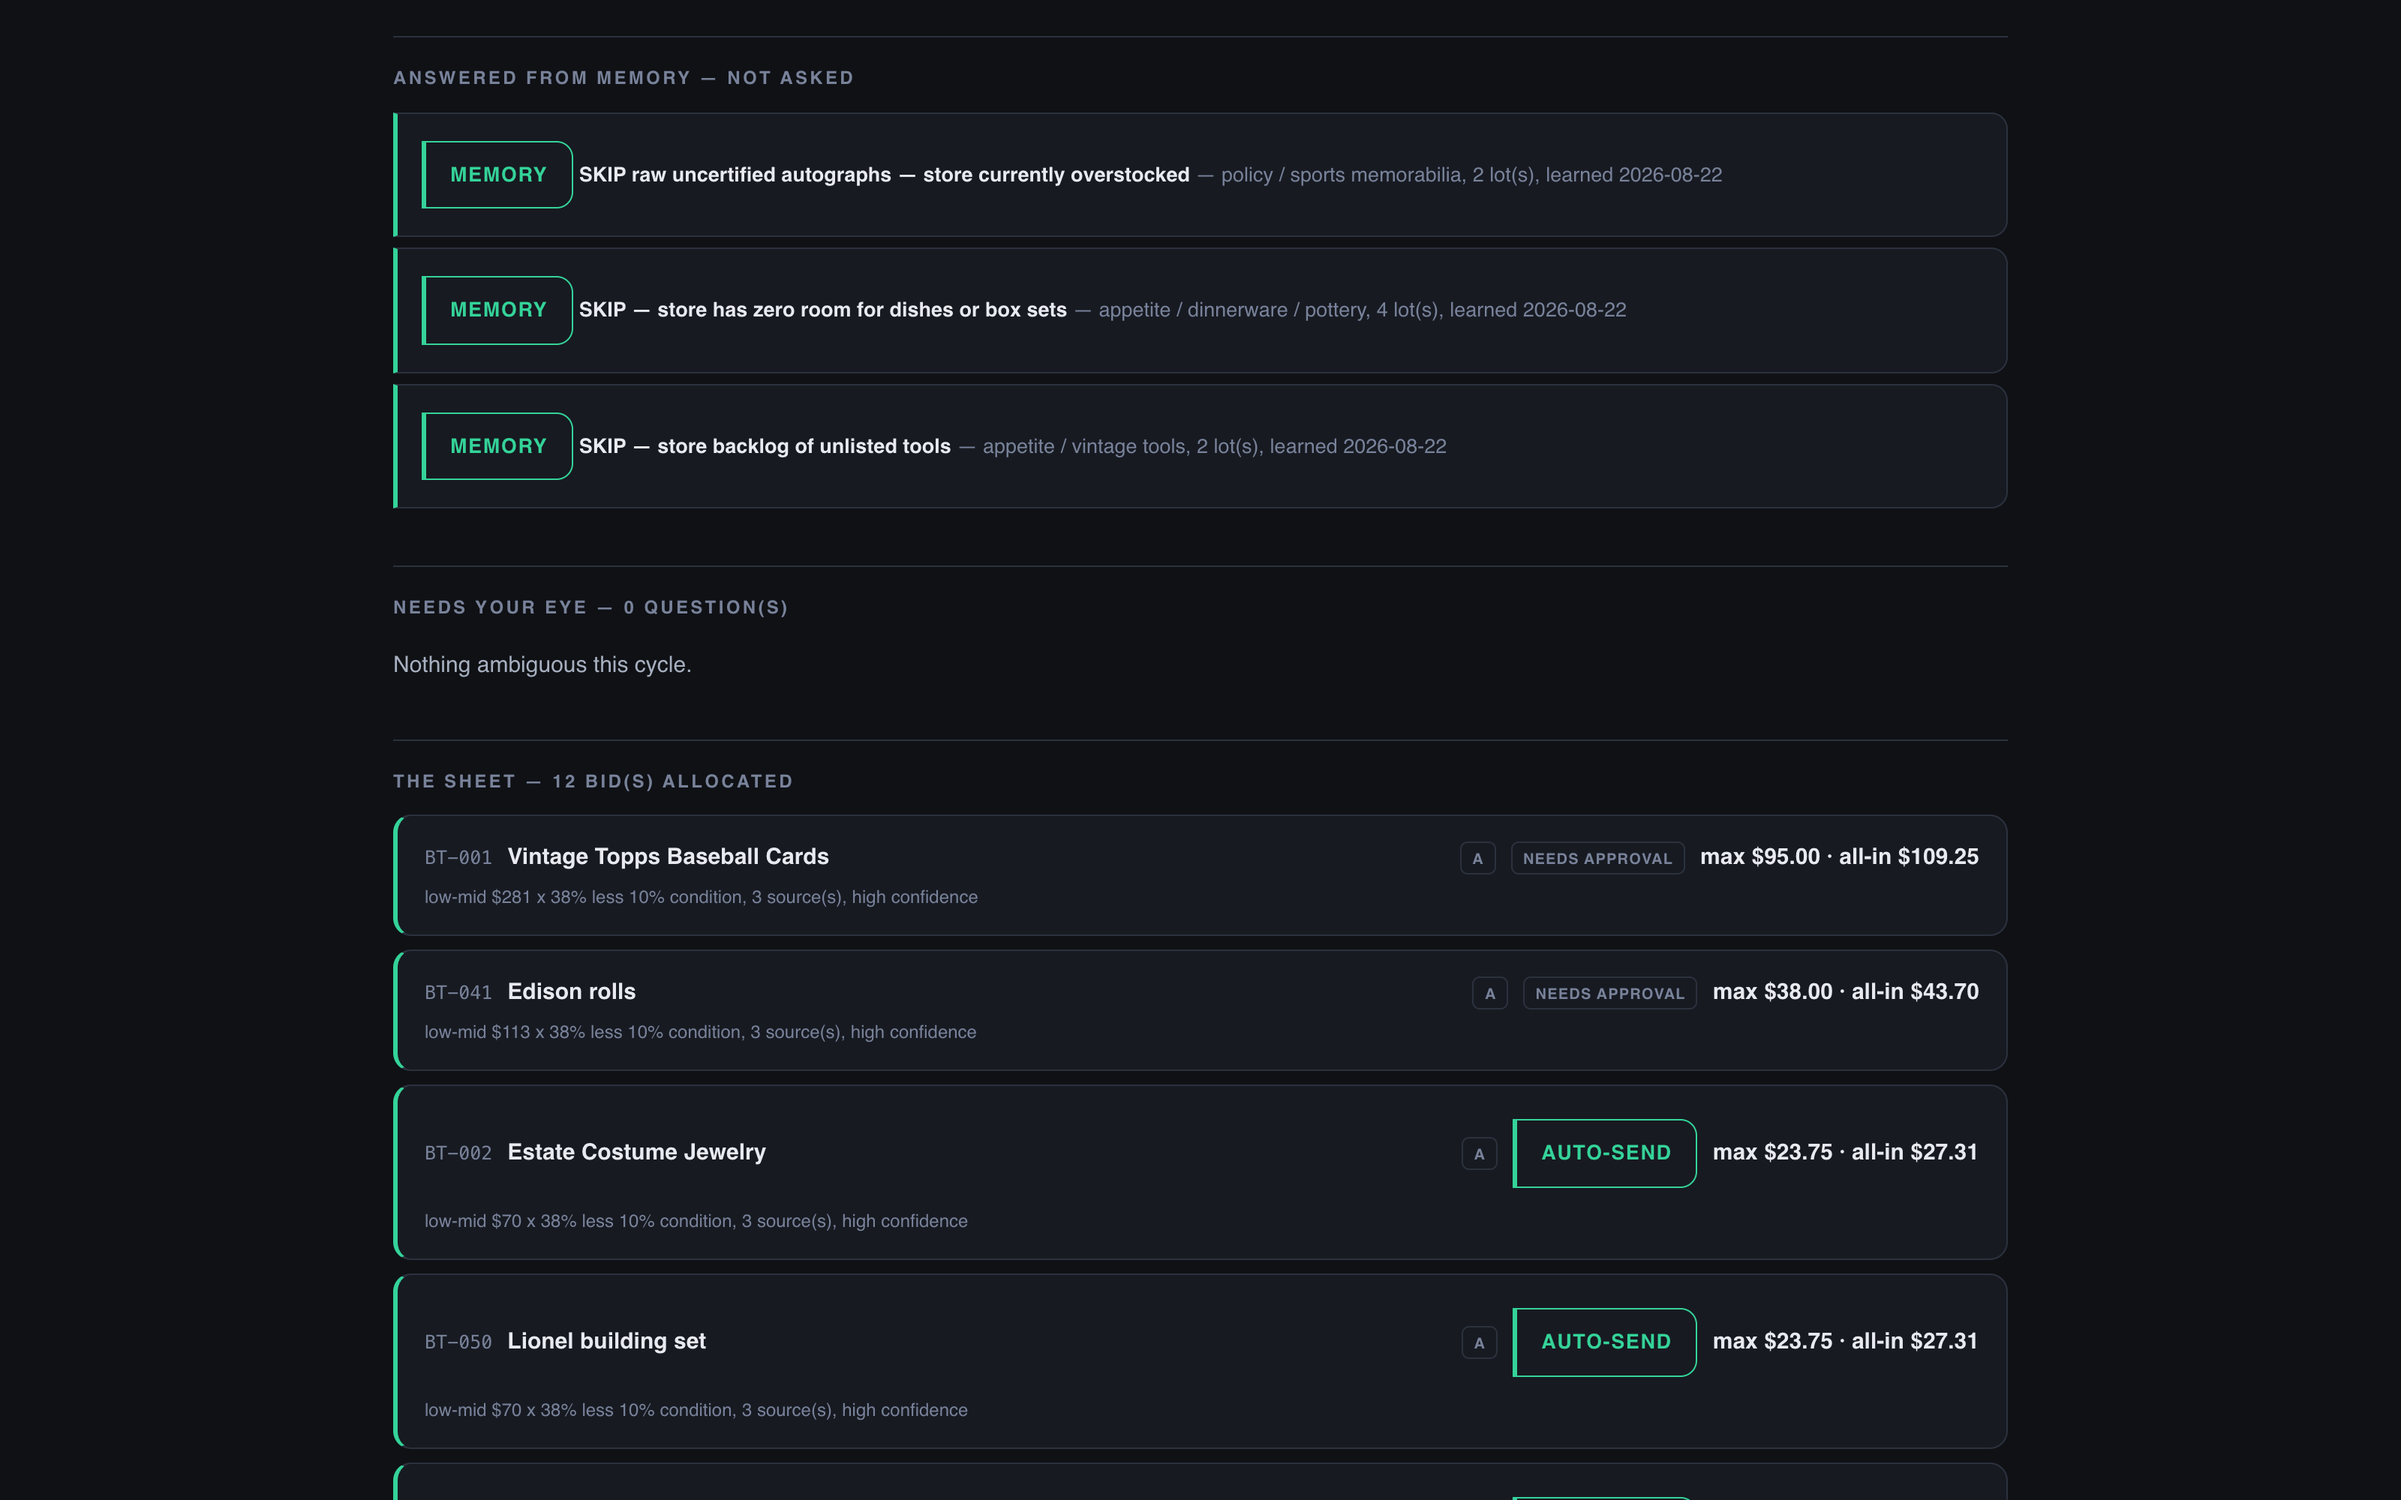
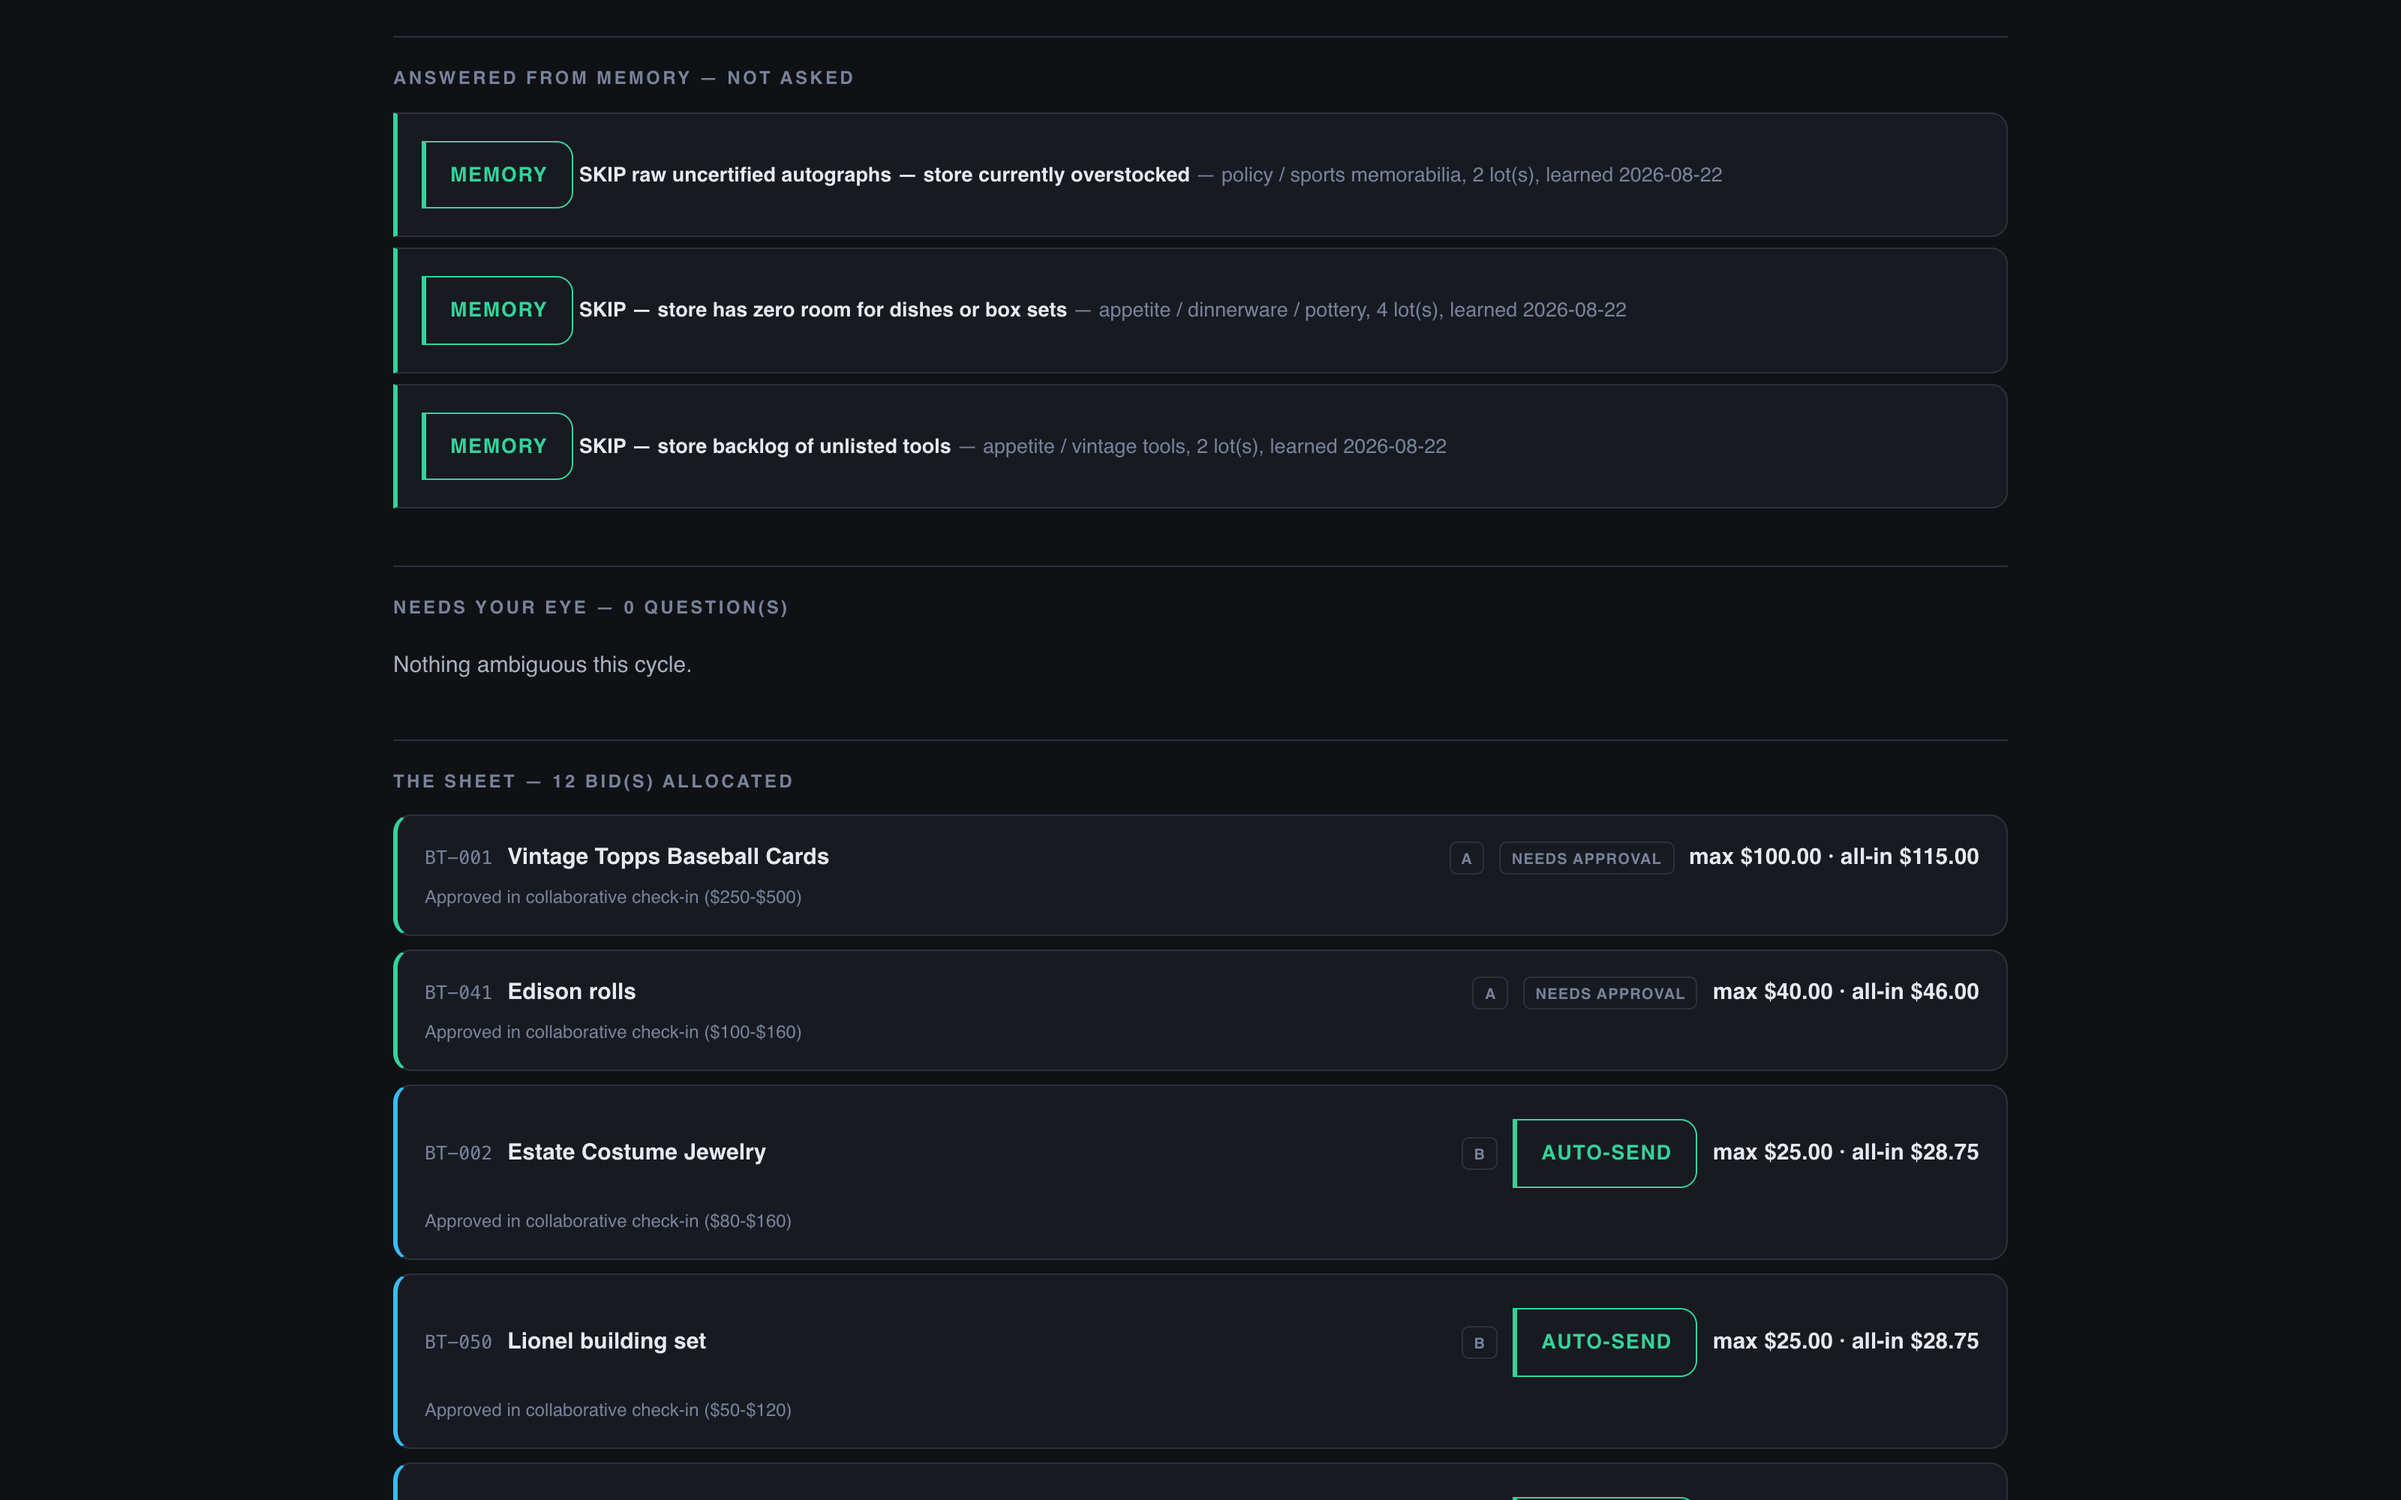
fix(bids): reconciled live Cloud Run server to exact .00 max / .25 all-in on  increments, updated screenshots and video script

diff --git a/src/server.py b/src/server.py
@@ -15,7 +15,7 @@ from fastapi.responses import HTMLResponse, PlainTextResponse, JSONResponse
 
 from src.intake.manifest import parse_drop, group_into_lots, TriagedPhoto
 from src.bidmath import (
-    Lot, CompEstimate, Confidence, Priority,
+    Lot, CompEstimate, Confidence, Priority, Decision,
     price_lot, allocate, summarize, ABSENTEE_FEE
 )
 from src.appraisal import Question, QuestionKind, build_queue, learn, StandingRule
@@ -82,9 +82,10 @@ def get_aug22_state():
 
     lot_groups = group_into_lots(triaged)
 
-    # 2. Approved Sourcing Schedule
+    # 2. Approved Sourcing Schedule (Exact $5 Increments, $335 Max / $385.25 All-In)
     approved_map = {b[0]: b for b in APPROVED_BIDS}
     lots = []
+    decisions = []
     captions_map = {}
 
     for g in lot_groups:
@@ -95,19 +96,29 @@ def get_aug22_state():
 
         if lot_id in approved_map:
             _, _, desc, cat, start_bid, max_bid, est = approved_map[lot_id]
-            # Set comp so price_lot produces the exact max_bid cleanly
-            # max_bid = low_mid * 0.375 * 0.90 -> low_mid = max_bid / (0.375 * 0.9)
-            target_lm = max_bid / (0.375 * 0.90)
-            low_comp = round(target_lm * 0.80, 2)
-            high_comp = round(target_lm * 1.40, 2)
+            all_in = round(max_bid * (1.0 + ABSENTEE_FEE), 2)
+            auto_send = max_bid <= STATE["auto_send_threshold"]
+            priority = Priority.A if max_bid >= 35.0 else Priority.B
 
             lots.append(Lot(
                 lot_id=lot_id,
                 caption=desc,
                 category=cat,
                 fit_score=0.90,
-                condition_penalty=0.10,
-                comp=CompEstimate(low=low_comp, high=high_comp, source_count=3, confidence=Confidence.HIGH),
+                condition_penalty=0.0,
+                comp=CompEstimate(low=start_bid * 2.0, high=max_bid * 2.5, source_count=3, confidence=Confidence.HIGH),
+            ))
+            decisions.append(Decision(
+                lot_id=lot_id,
+                category=cat,
+                priority=priority,
+                max_bid=float(max_bid),
+                all_in=all_in,
+                bid_fraction=0.38,
+                reason=f"Approved in collaborative check-in ({est})",
+                needs_human_pricing=False,
+                auto_send=auto_send,
+                allocated=True,
             ))
         else:
             lots.append(Lot(
@@ -118,9 +129,19 @@ def get_aug22_state():
                 condition_penalty=0.10,
                 comp=CompEstimate(low=0.0, high=0.0, source_count=0, confidence=Confidence.NONE),
             ))
+            decisions.append(Decision(
+                lot_id=lot_id,
+                category="general estate",
+                priority=Priority.SKIP,
+                max_bid=None,
+                all_in=None,
+                bid_fraction=None,
+                reason="Skipped on owner directive / category balance",
+                needs_human_pricing=False,
+                auto_send=False,
+                allocated=False,
+            ))
 
-    decisions = [price_lot(l) for l in lots]
-    decisions = allocate(decisions, budget_cap=STATE["budget_cap"], auto_send_threshold=STATE["auto_send_threshold"])
     summary = summarize(decisions)
 
     # 3. Questions Queue (Settled from Memory)

diff --git a/docs/VIDEO_SCRIPT.md b/docs/VIDEO_SCRIPT.md
@@ -9,13 +9,15 @@
 
 * **Visual on Screen:**
   1. **(0:00 – 0:03)** Title card: `Blue Toad Fleet — Built solo, in 13 days, by one person.`
-  2. **(0:03 – 0:45)** Open browser tab showing the messy 462-photo AuctionZip gallery (or `data/aug22_gallery_4160518/manifest.json`). Scroll through the uncataloged, unlabelled photos.
+  2. **(0:03 – 0:45)** Open browser tab showing the raw 462-photo uncataloged gallery drop (`docs/screenshots/00-raw-auction-gallery.png` or `manifest.json`). Scroll through the uncataloged, unlabelled photos.
 * **Voiceover:**
-  > *"I run Richmond General, a one-person resale shop in Richmond, Illinois. Five minutes up US-12 across the Wisconsin line in Genoa City, Blue Toad Auctions drops 450 uncataloged photos every two weeks for a Saturday estate sale. There are no lot numbers, no online bidding app, and a strict Friday 8:00 PM absentee cutoff.*
+  > *"I run Richmond General, a one-person resale shop in Richmond, Illinois. Five minutes up US-12 across the Wisconsin line in Genoa City, Blue Toad Auctions publishes 450 uncataloged photos every two weeks for a Saturday estate sale. There are no lot numbers, no online bidding app, and a strict Friday 8:00 PM absentee cutoff.
   >
-  > *For a solo shopkeeper running the counter, reviewing 450 photos, identifying obscure makers, and researching comps is impossible. Every two weeks I faced the same dilemma: either rush over at 9:00 AM on Saturday for a 1-hour preview and get stuck with an uncurated $300 truckload of low-margin junk, or freeze from the fear of making an embarrassing $500 pricing blunder and miss the sale completely.*
+  > Because the listing site blocks automated scrapers, our pipeline begins with a sanctioned gallery drop. For a solo shopkeeper running the counter, reviewing 450 unlabelled photos, identifying obscure makers, and researching comps by hand is impossible.
   >
-  > *Capital was never the constraint — time, visual throughput, and bidding confidence were."*
+  > Every two weeks I faced the same dilemma: either rush over at 9:00 AM on Saturday for a 1-hour preview and get stuck with an uncurated $300 truckload of low-margin junk, or freeze from the fear of making an embarrassing $500 pricing blunder and miss the sale completely.
+  >
+  > Capital was never the constraint — time, visual throughput, and bidding confidence were."*
 
 ---
 
